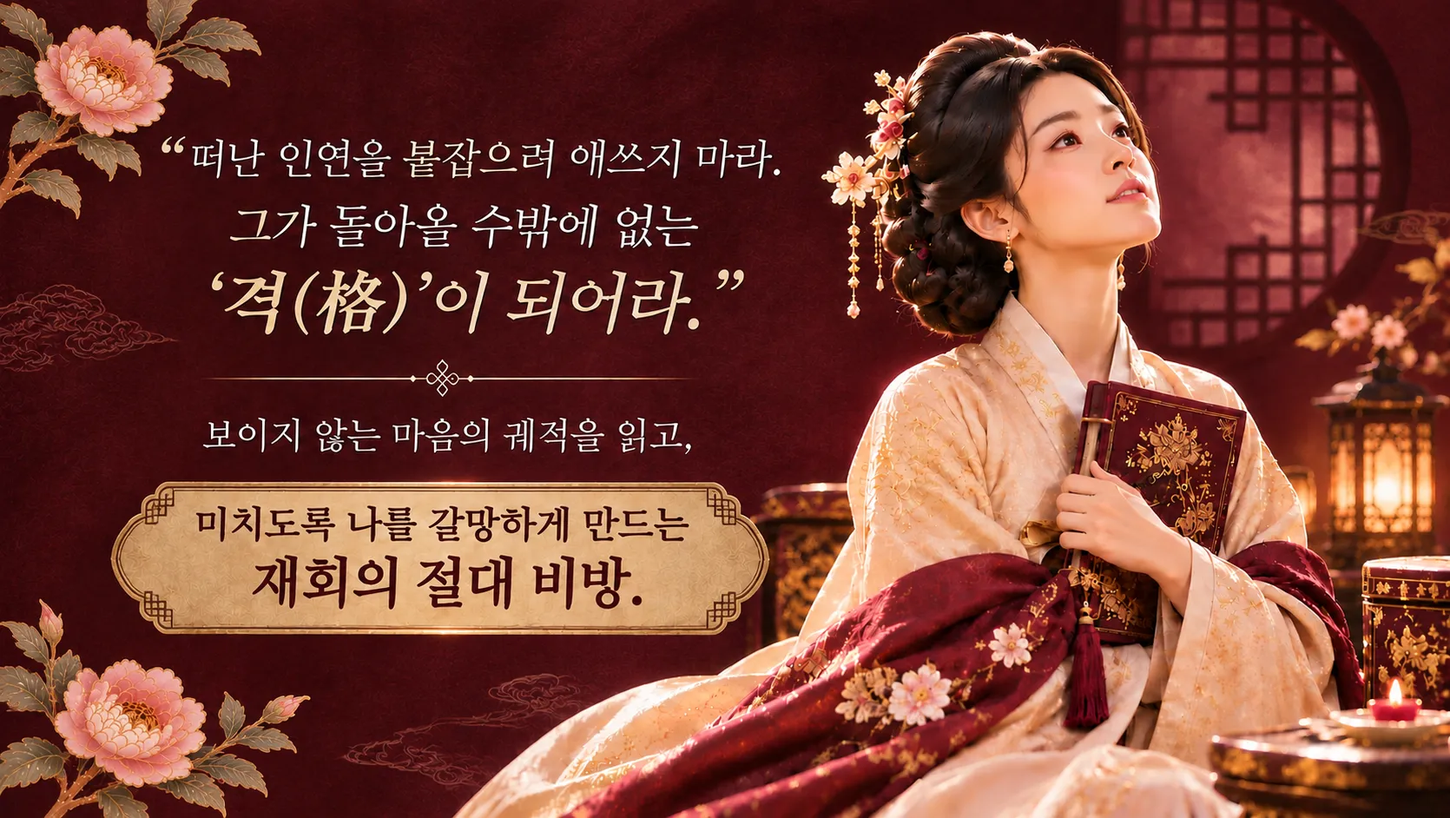
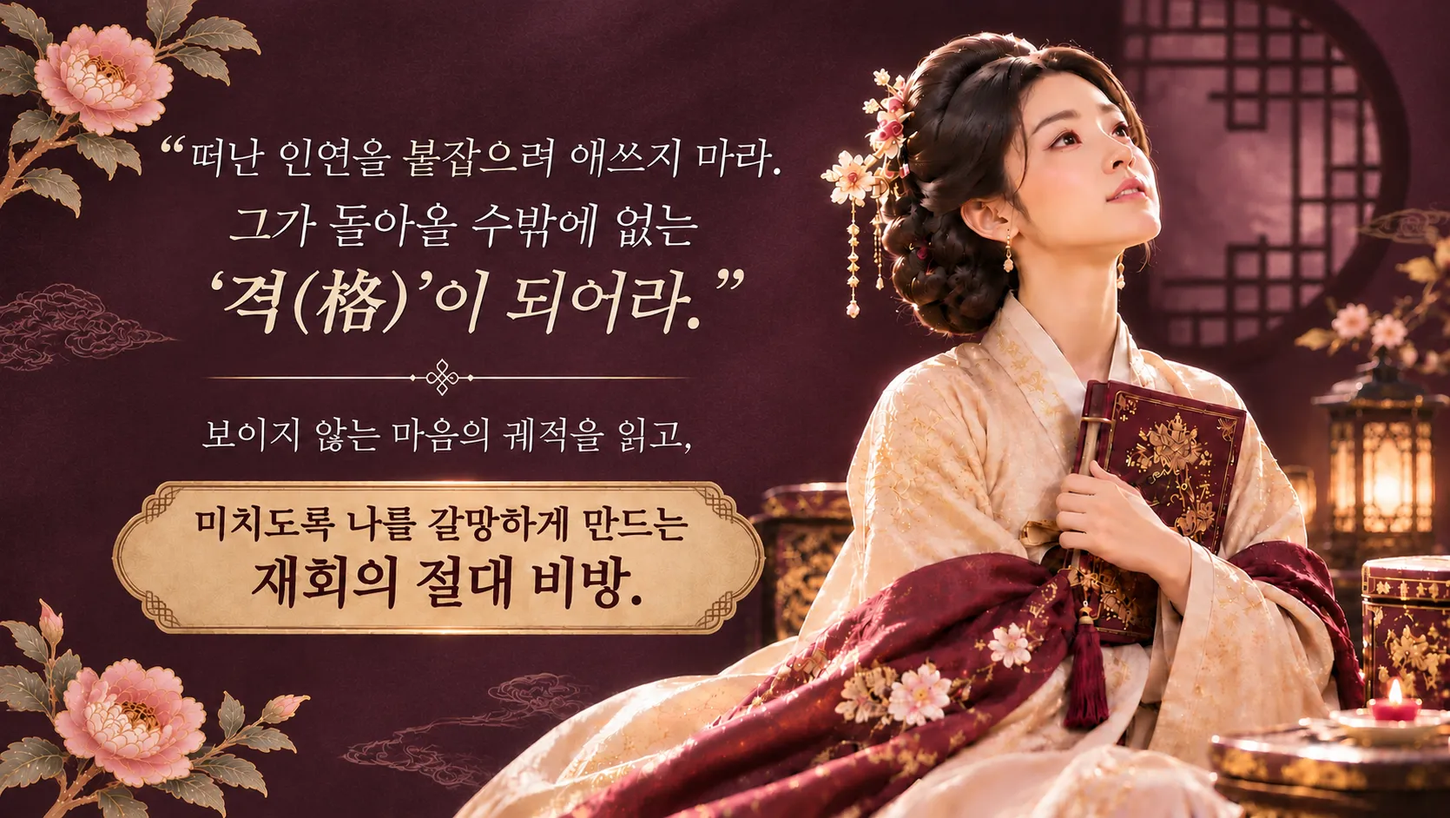
style(reunion-secret): refine entire page color scheme to deep plum burgundy

diff --git a/app/reports/reunion-secret/page.tsx b/app/reports/reunion-secret/page.tsx
@@ -139,14 +139,14 @@ function HybridImageSlot({
     <div
       className={`relative overflow-hidden rounded-2xl md:rounded-3xl border border-[#B49A70]/40 shadow-2xl flex flex-col items-center justify-center p-6 text-center group transition-all duration-300 hover:border-[#B49A70]/70 ${className}`}
       style={{
-        background: 'radial-gradient(ellipse at 50% 30%, rgba(96, 0, 24, 0.45) 0%, rgba(28, 4, 11, 0.95) 100%)',
+        background: 'radial-gradient(ellipse at 50% 30%, rgba(70, 45, 56, 0.45) 0%, rgba(38, 25, 32, 0.95) 100%)',
         boxShadow: '0 12px 40px rgba(0, 0, 0, 0.5), inset 0 0 20px rgba(180, 154, 112, 0.08)'
       }}
     >
       <div className="absolute inset-0 bg-[radial-gradient(circle_at_50%_40%,rgba(180,154,112,0.12)_0%,transparent_60%)] pointer-events-none" />
 
       <div className="relative z-10 flex flex-col items-center space-y-3 max-w-xs">
-        <div className="w-12 h-12 rounded-2xl bg-[#600018]/60 border border-[#B49A70]/50 flex items-center justify-center text-[#B59C88] shadow-md group-hover:scale-105 transition-transform">
+        <div className="w-12 h-12 rounded-2xl bg-[#462D38]/60 border border-[#B49A70]/50 flex items-center justify-center text-[#B59C88] shadow-md group-hover:scale-105 transition-transform">
           <ImageIcon className="w-6 h-6 text-[#C2A477]" />
         </div>
 
@@ -189,7 +189,7 @@ function BookTocAccordion({
       <button
         type="button"
         onClick={() => setIsOpen(!isOpen)}
-        className="w-full py-3 px-4 rounded-xl border border-[#B49A70]/30 bg-[#2E0B16]/40 hover:bg-[#4A0E1C]/60 hover:border-[#B49A70]/60 transition-all flex items-center justify-between text-left group cursor-pointer"
+        className="w-full py-3 px-4 rounded-xl border border-[#B49A70]/30 bg-[#38212B]/40 hover:bg-[#462D38]/60 hover:border-[#B49A70]/60 transition-all flex items-center justify-between text-left group cursor-pointer"
       >
         <div className="flex items-center gap-2.5">
           <BookOpen className="w-4 h-4 text-[#C2A477] group-hover:text-[#FAF7F2] transition-colors" />
@@ -410,29 +410,29 @@ export default function ReunionSecretPage() {
         brightCenter={false}
         customBaseOverlay={
           <div className="absolute inset-0 w-full h-full pointer-events-none">
-            {/* 1. 우측 은은한 앤티크 브라운 버건디 라이트 오라 (오른쪽 입체감 및 비침 효과 강화) */}
+            {/* 1. 우측 은은한 딥 플럼 버건디 라이트 오라 (오른쪽 입체감 및 비침 효과 강화) */}
             <div
               className="absolute inset-0"
               style={{
                 background: `
-                  radial-gradient(ellipse 70% 50% at 88% 22%, rgba(78, 32, 45, 0.25) 0%, rgba(45, 18, 25, 0.10) 50%, transparent 75%),
-                  radial-gradient(circle 600px at 90% 65%, rgba(65, 26, 37, 0.18) 0%, transparent 65%)
+                  radial-gradient(ellipse 70% 50% at 88% 22%, rgba(70, 45, 56, 0.22) 0%, rgba(56, 33, 43, 0.10) 50%, transparent 75%),
+                  radial-gradient(circle 600px at 90% 65%, rgba(64, 48, 57, 0.15) 0%, transparent 65%)
                 `,
               }}
             />
 
-            {/* 2. 메인 가로 그라데이션 (왼쪽은 100% 완전 불투명 암흑 와인으로 배경 차단, 오른쪽만 살짝 투명도를 주어 은은하게 비침) */}
+            {/* 2. 메인 가로 그라데이션 (왼쪽은 딥 다크 플럼으로 배경 차단, 오른쪽만 살짝 투명도를 주어 은은하게 비침) */}
             <div
               className="absolute inset-0"
               style={{
                 background: `
                   linear-gradient(
                     95deg,
-                    #12080B 0%,
-                    #160D11 35%,
-                    rgba(28, 14, 18, 0.98) 55%,
-                    rgba(43, 20, 27, 0.94) 75%,
-                    rgba(60, 26, 36, 0.88) 100%
+                    #120B0E 0%,
+                    #181014 35%,
+                    rgba(26, 17, 22, 0.98) 55%,
+                    rgba(38, 25, 32, 0.94) 75%,
+                    rgba(56, 33, 43, 0.88) 100%
                   )
                 `,
               }}
@@ -573,7 +573,7 @@ export default function ReunionSecretPage() {
                           <button
                             type="button"
                             onClick={handleAddToCart}
-                            className="py-3.5 px-5 sm:px-6 rounded-xl font-elegant font-bold text-sm md:text-base border border-[#B49A70]/60 text-[#B59C88] hover:bg-[#600018]/25 hover:border-[#B49A70]/70 transition-all duration-300 shrink-0 whitespace-nowrap text-center bg-transparent order-2 sm:order-1"
+                            className="py-3.5 px-5 sm:px-6 rounded-xl font-elegant font-bold text-sm md:text-base border border-[#B49A70]/60 text-[#B59C88] hover:bg-[#462D38]/30 hover:border-[#B49A70]/70 transition-all duration-300 shrink-0 whitespace-nowrap text-center bg-transparent order-2 sm:order-1"
                           >
                             장바구니 담기
                           </button>
@@ -679,7 +679,7 @@ export default function ReunionSecretPage() {
                               key={idx}
                               className="p-4 rounded-xl border border-white/10 bg-white/[0.02] flex items-start gap-3.5 hover:border-[#B49A70]/40 transition-colors"
                             >
-                              <div className="w-5 h-5 rounded border border-[#B49A70]/60 flex items-center justify-center shrink-0 mt-1 bg-[#600018] shadow-sm">
+                              <div className="w-5 h-5 rounded border border-[#B49A70]/60 flex items-center justify-center shrink-0 mt-1 bg-[#462D38] shadow-sm">
                                 <Check className="w-3.5 h-3.5 text-[#FAF7F2]" />
                               </div>
                               <span className="text-[16px] md:text-[18px] text-[#FAF7F2] font-medium leading-[1.6] break-keep">
@@ -741,7 +741,7 @@ export default function ReunionSecretPage() {
                           ) : (
                             <div className="w-full h-full p-8 flex flex-col justify-between relative overflow-hidden"
                               style={{
-                                background: 'radial-gradient(ellipse at 50% 30%, rgba(96, 0, 24, 0.45) 0%, rgba(28, 4, 11, 0.95) 100%)'
+                                background: 'radial-gradient(ellipse at 50% 30%, rgba(70, 45, 56, 0.45) 0%, rgba(38, 25, 32, 0.95) 100%)'
                               }}>
                               <div className="text-center relative z-10 space-y-2">
                                 <ReunionBadge>
@@ -793,8 +793,8 @@ export default function ReunionSecretPage() {
                       <div
                         className="p-7 md:p-8 rounded-2xl md:rounded-3xl relative overflow-hidden transition-all duration-300 hover:-translate-y-1 hover:border-[#B49A70]/50 flex flex-col justify-between"
                         style={{
-                          background: 'linear-gradient(135deg, rgba(50, 10, 20, 0.70) 0%, rgba(20, 5, 12, 0.85) 100%)',
-                          border: '1px solid rgba(180, 154, 112, 0.25)',
+                          background: 'linear-gradient(135deg, rgba(70, 45, 56, 0.70) 0%, rgba(38, 25, 32, 0.88) 100%)',
+                          border: '1px solid rgba(185, 154, 121, 0.25)',
                           backdropFilter: 'blur(10px)',
                           WebkitBackdropFilter: 'blur(10px)',
                           boxShadow: '0 8px 32px rgba(0, 0, 0, 0.35)'
@@ -824,8 +824,8 @@ export default function ReunionSecretPage() {
                       <div
                         className="p-7 md:p-8 rounded-2xl md:rounded-3xl relative overflow-hidden transition-all duration-300 hover:-translate-y-1 hover:border-[#B49A70]/50 flex flex-col justify-between"
                         style={{
-                          background: 'linear-gradient(135deg, rgba(50, 10, 20, 0.70) 0%, rgba(20, 5, 12, 0.85) 100%)',
-                          border: '1px solid rgba(180, 154, 112, 0.25)',
+                          background: 'linear-gradient(135deg, rgba(70, 45, 56, 0.70) 0%, rgba(38, 25, 32, 0.88) 100%)',
+                          border: '1px solid rgba(185, 154, 121, 0.25)',
                           backdropFilter: 'blur(10px)',
                           WebkitBackdropFilter: 'blur(10px)',
                           boxShadow: '0 8px 32px rgba(0, 0, 0, 0.35)'
@@ -855,8 +855,8 @@ export default function ReunionSecretPage() {
                       <div
                         className="p-7 md:p-8 rounded-2xl md:rounded-3xl relative overflow-hidden transition-all duration-300 hover:-translate-y-1 hover:border-[#B49A70]/50 flex flex-col justify-between"
                         style={{
-                          background: 'linear-gradient(135deg, rgba(50, 10, 20, 0.70) 0%, rgba(20, 5, 12, 0.85) 100%)',
-                          border: '1px solid rgba(180, 154, 112, 0.25)',
+                          background: 'linear-gradient(135deg, rgba(70, 45, 56, 0.70) 0%, rgba(38, 25, 32, 0.88) 100%)',
+                          border: '1px solid rgba(185, 154, 121, 0.25)',
                           backdropFilter: 'blur(10px)',
                           WebkitBackdropFilter: 'blur(10px)',
                           boxShadow: '0 8px 32px rgba(0, 0, 0, 0.35)'
@@ -1400,8 +1400,8 @@ export default function ReunionSecretPage() {
                       textClassName="text-[15px] sm:text-[16px] md:text-[17px]"
                       cardBgColor="#F3E9D8"
                       cardBorderColor="rgba(197, 168, 140, 0.45)"
-                      checkBgColor="#682438"
-                      checkBorderColor="border-[#8C3A4F]/40"
+                      checkBgColor="#462D38"
+                      checkBorderColor="border-[#462D38]/40"
                       checkIconColor="text-[#FFF5E8]"
                       textColor="text-[#2C151D]"
                       items={[
@@ -1467,7 +1467,7 @@ export default function ReunionSecretPage() {
                       /* 최종 인포그래픽 교체 전에도 품격 있게 표시되는 아키텍처 다이어그램 카드 */
                       <div className="w-full p-6 sm:p-10 md:p-14 flex flex-col justify-between relative overflow-hidden text-left"
                         style={{
-                          background: 'linear-gradient(135deg, rgba(35, 6, 14, 0.95) 0%, rgba(15, 3, 8, 0.98) 100%)'
+                          background: 'linear-gradient(135deg, rgba(56, 33, 43, 0.95) 0%, rgba(26, 17, 22, 0.98) 100%)'
                         }}>
                         <div className="grid grid-cols-1 md:grid-cols-4 gap-4 sm:gap-6 relative z-10 my-4 items-stretch">
                           {[
@@ -1633,7 +1633,7 @@ export default function ReunionSecretPage() {
                           </li>
                         </ul>
                       </div>
-                      <div className="p-4 rounded-xl bg-[#600018]/50 border border-[#B49A70]/40 text-xs text-[#FAF7F2] font-medium">
+                      <div className="p-4 rounded-xl bg-[#462D38]/50 border border-[#B49A70]/40 text-xs text-[#FAF7F2] font-medium">
                         ✨ 이때 상대방은 &apos;내가 잘못 판단했구나&apos;라는 후회와 함께 자발적으로 다가옵니다.
                       </div>
                     </div>
@@ -1760,7 +1760,7 @@ export default function ReunionSecretPage() {
               <Reveal>
                 <div className="space-y-10">
                   {/* Book 1. [본편] 《재회비방(再會秘方) 완전판》 */}
-                  <div className="p-6 md:p-10 lg:p-12 rounded-3xl bg-gradient-to-r from-[#1E040D] via-[#140207] to-[#0A0205] border border-[#B49A70]/40 shadow-2xl grid lg:grid-cols-12 gap-8 lg:gap-12 items-start">
+                  <div className="p-6 md:p-10 lg:p-12 rounded-3xl bg-gradient-to-r from-[#2B1B24] via-[#1E1319] to-[#120B0F] border border-[#B49A70]/40 shadow-2xl grid lg:grid-cols-12 gap-8 lg:gap-12 items-start">
                     <div className="lg:col-span-5 flex justify-center">
                       <div className="w-full max-w-[340px] lg:max-w-none">
                         <HybridImageSlot
@@ -1835,7 +1835,7 @@ export default function ReunionSecretPage() {
                   </div>
 
                   {/* Book 2. [실전 부록 1] 《재회 역전의 법칙: 30일 실전 행동 매뉴얼》 */}
-                  <div className="p-6 md:p-10 lg:p-12 rounded-3xl bg-gradient-to-r from-[#1E040D] via-[#140207] to-[#0A0205] border border-[#B49A70]/40 shadow-2xl grid lg:grid-cols-12 gap-8 lg:gap-12 items-start">
+                  <div className="p-6 md:p-10 lg:p-12 rounded-3xl bg-gradient-to-r from-[#2B1B24] via-[#1E1319] to-[#120B0F] border border-[#B49A70]/40 shadow-2xl grid lg:grid-cols-12 gap-8 lg:gap-12 items-start">
                     <div className="lg:col-span-5 flex justify-center order-last lg:order-first">
                       <div className="w-full max-w-[340px] lg:max-w-none">
                         <HybridImageSlot
@@ -1904,13 +1904,13 @@ export default function ReunionSecretPage() {
                             </span>
                           </h4>
                           <div className="flex flex-wrap gap-2 pl-5 pt-0.5">
-                            <span className="px-2.5 py-1 rounded-md bg-[#2A0510] border border-[#B49A70]/35 text-[13px] md:text-[14px] text-[#FAF7F2]">
+                            <span className="px-2.5 py-1 rounded-md bg-[#38212B] border border-[#B49A70]/35 text-[13px] md:text-[14px] text-[#FAF7F2]">
                               감정 격류 진정 기록지
                             </span>
-                            <span className="px-2.5 py-1 rounded-md bg-[#2A0510] border border-[#B49A70]/35 text-[13px] md:text-[14px] text-[#FAF7F2]">
+                            <span className="px-2.5 py-1 rounded-md bg-[#38212B] border border-[#B49A70]/35 text-[13px] md:text-[14px] text-[#FAF7F2]">
                               공백기 일일 점검표
                             </span>
-                            <span className="px-2.5 py-1 rounded-md bg-[#2A0510] border border-[#B49A70]/35 text-[13px] md:text-[14px] text-[#FAF7F2]">
+                            <span className="px-2.5 py-1 rounded-md bg-[#38212B] border border-[#B49A70]/35 text-[13px] md:text-[14px] text-[#FAF7F2]">
                               재회 가능성 12문항 자가진단표
                             </span>
                           </div>
@@ -1924,7 +1924,7 @@ export default function ReunionSecretPage() {
                   </div>
 
                   {/* Book 3. [실전 부록 2] 《재회 후폭풍 치트키: 무의식 시크릿 메시지 33선》 */}
-                  <div className="p-6 md:p-10 lg:p-12 rounded-3xl bg-gradient-to-r from-[#1E040D] via-[#140207] to-[#0A0205] border border-[#B49A70]/40 shadow-2xl grid lg:grid-cols-12 gap-8 lg:gap-12 items-start">
+                  <div className="p-6 md:p-10 lg:p-12 rounded-3xl bg-gradient-to-r from-[#2B1B24] via-[#1E1319] to-[#120B0F] border border-[#B49A70]/40 shadow-2xl grid lg:grid-cols-12 gap-8 lg:gap-12 items-start">
                     <div className="lg:col-span-5 flex justify-center">
                       <div className="w-full max-w-[340px] lg:max-w-none">
                         <HybridImageSlot
@@ -2040,7 +2040,7 @@ export default function ReunionSecretPage() {
                             <div
                               key={idx}
                               onClick={() => setPreviewModalItem(item)}
-                              className="group relative aspect-[3/4] rounded-xl overflow-hidden border border-[#B49A70]/30 bg-[#160308] cursor-pointer shadow-md hover:border-[#B49A70]/70 transition-all"
+                              className="group relative aspect-[3/4] rounded-xl overflow-hidden border border-[#B49A70]/30 bg-[#261920] cursor-pointer shadow-md hover:border-[#B49A70]/70 transition-all"
                             >
                               <Image
                                 src={item.imageSrc}
@@ -2126,7 +2126,7 @@ export default function ReunionSecretPage() {
                     <button
                       type="button"
                       onClick={handleAddToCart}
-                      className="py-3.5 px-5 sm:px-6 rounded-xl font-elegant font-bold text-sm md:text-base border border-[#B49A70]/60 text-[#B59C88] hover:bg-[#600018]/25 hover:border-[#B49A70]/70 transition-all duration-300 shrink-0 whitespace-nowrap text-center bg-transparent order-2 sm:order-1"
+                      className="py-3.5 px-5 sm:px-6 rounded-xl font-elegant font-bold text-sm md:text-base border border-[#B49A70]/60 text-[#B59C88] hover:bg-[#462D38]/30 hover:border-[#B49A70]/70 transition-all duration-300 shrink-0 whitespace-nowrap text-center bg-transparent order-2 sm:order-1"
                     >
                       장바구니 담기
                     </button>
@@ -2406,8 +2406,8 @@ export default function ReunionSecretPage() {
                             {/* 딥 버건디 원형 체크 아이콘 (이런 분께 추천합니다와 크기·색상·비율 100% 일치) */}
                             <div className="shrink-0 mt-0.5 relative z-10">
                               <div
-                                style={{ backgroundColor: '#682438' }}
-                                className="w-6 h-6 md:w-[26px] md:h-[26px] rounded-full flex items-center justify-center p-1 border border-[#8C3A4F]/40 shadow-none"
+                                style={{ backgroundColor: '#462D38' }}
+                                className="w-6 h-6 md:w-[26px] md:h-[26px] rounded-full flex items-center justify-center p-1 border border-[#462D38]/40 shadow-none"
                               >
                                 <Check className="w-3.5 h-3.5 md:w-4 md:h-4 text-[#FFF5E8] stroke-[2.4]" />
                               </div>
@@ -2485,7 +2485,7 @@ export default function ReunionSecretPage() {
                     ) : (
                       <div className="w-full h-full p-6 sm:p-10 md:p-14 flex flex-col justify-between relative overflow-hidden"
                         style={{
-                          background: 'linear-gradient(135deg, rgba(35, 6, 14, 0.90) 0%, rgba(15, 3, 8, 0.98) 100%)'
+                          background: 'linear-gradient(135deg, rgba(56, 33, 43, 0.90) 0%, rgba(26, 17, 22, 0.98) 100%)'
                         }}>
                         <div className="absolute inset-0 bg-[radial-gradient(circle_at_50%_50%,rgba(180,154,112,0.15)_0%,transparent_70%)] pointer-events-none" />
 
@@ -2498,9 +2498,9 @@ export default function ReunionSecretPage() {
                         {/* 좌우 비교 카드 (왼쪽: 불안에 쫓기는 사람 vs 오른쪽: 내 중심을 지키는 사람) */}
                         <div className="grid grid-cols-1 md:grid-cols-2 gap-6 md:gap-10 relative z-10 my-auto items-stretch">
                           {/* 왼쪽: 불안에 쫓기는 사람 */}
-                          <div className="p-5 sm:p-6 md:p-8 rounded-2xl bg-[#140207]/90 border border-[#5A1220] flex flex-col justify-between space-y-4 shadow-lg">
+                          <div className="p-5 sm:p-6 md:p-8 rounded-2xl bg-[#1D1318]/90 border border-[#462D38] flex flex-col justify-between space-y-4 shadow-lg">
                             <div className="flex items-center justify-between border-b border-white/10 pb-3">
-                              <span className="px-3 py-1 rounded bg-[#3A0813] text-xs font-bold text-[#E5DED0]">
+                              <span className="px-3 py-1 rounded bg-[#403039] text-xs font-bold text-[#E5DED0]">
                                 불안에 쫓기는 사람
                               </span>
                               <span className="text-xs text-red-400 font-medium">을의 연애 / 매달림</span>
@@ -2525,9 +2525,9 @@ export default function ReunionSecretPage() {
                           </div>
 
                           {/* 오른쪽: 내 중심을 지키는 사람 */}
-                          <div className="p-5 sm:p-6 md:p-8 rounded-2xl bg-[#28050F]/90 border border-[#B49A70]/60 flex flex-col justify-between space-y-4 shadow-xl">
+                          <div className="p-5 sm:p-6 md:p-8 rounded-2xl bg-[#261920]/90 border border-[#B49A70]/60 flex flex-col justify-between space-y-4 shadow-xl">
                             <div className="flex items-center justify-between border-b border-[#B49A70]/30 pb-3">
-                              <span className="px-3 py-1 rounded bg-[#600018] text-xs font-bold text-[#FAF7F2] border border-[#B49A70]/40">
+                              <span className="px-3 py-1 rounded bg-[#462D38] text-xs font-bold text-[#FAF7F2] border border-[#B49A70]/40">
                                 내 중심을 지키는 사람
                               </span>
                               <span className="text-xs text-[#C2A477] font-bold">프레임 역전 / 주도권</span>
@@ -2600,7 +2600,7 @@ export default function ReunionSecretPage() {
                     ) : (
                       <div className="w-full h-full p-8 sm:p-12 md:p-16 lg:p-20 flex flex-col justify-between relative overflow-hidden text-left"
                         style={{
-                          background: 'radial-gradient(ellipse at 80% 50%, rgba(96, 0, 24, 0.45) 0%, rgba(20, 5, 12, 0.95) 70%, rgba(10, 2, 6, 1) 100%)'
+                          background: 'radial-gradient(ellipse at 80% 50%, rgba(70, 45, 56, 0.45) 0%, rgba(38, 25, 32, 0.95) 70%, rgba(18, 11, 15, 1) 100%)'
                         }}>
                         <div className="absolute -right-20 -bottom-20 w-96 h-96 rounded-full bg-[#B49A70]/10 blur-3xl pointer-events-none" />
 
@@ -2661,7 +2661,7 @@ export default function ReunionSecretPage() {
                         </p>
                       </div>
 
-                      <div className="p-7 rounded-2xl bg-[#2E0B16]/50 border border-[#B49A70]/30 space-y-3">
+                      <div className="p-7 rounded-2xl bg-[#38212B]/50 border border-[#B49A70]/30 space-y-3">
                         <p className="text-lg md:text-xl font-elegant font-medium text-[#FAF7F2] leading-relaxed break-keep">
                           &ldquo;{reviewCards[reviewIndex].quote}&rdquo;
                         </p>
@@ -2674,7 +2674,7 @@ export default function ReunionSecretPage() {
                         <button
                           type="button"
                           onClick={prevReview}
-                          className="p-3 rounded-full border border-[#B49A70]/40 text-[#FAF7F2] hover:bg-[#600018]/50 transition-colors"
+                          className="p-3 rounded-full border border-[#B49A70]/40 text-[#FAF7F2] hover:bg-[#462D38]/50 transition-colors"
                         >
                           <ChevronLeft className="w-5 h-5" />
                         </button>
@@ -2684,7 +2684,7 @@ export default function ReunionSecretPage() {
                         <button
                           type="button"
                           onClick={nextReview}
-                          className="p-3 rounded-full border border-[#B49A70]/40 text-[#FAF7F2] hover:bg-[#600018]/50 transition-colors"
+                          className="p-3 rounded-full border border-[#B49A70]/40 text-[#FAF7F2] hover:bg-[#462D38]/50 transition-colors"
                         >
                           <ChevronRight className="w-5 h-5" />
                         </button>
@@ -2873,7 +2873,7 @@ export default function ReunionSecretPage() {
                     return (
                       <div
                         key={idx}
-                        className="rounded-2xl border border-[#B49A70]/30 overflow-hidden bg-[#160308]/60 transition-colors"
+                        className="rounded-2xl border border-[#B49A70]/30 overflow-hidden bg-[#261920]/60 transition-colors"
                       >
                         <button
                           type="button"
@@ -2916,7 +2916,7 @@ export default function ReunionSecretPage() {
                 <div
                   className="gungjung-glass rounded-3xl border border-[#B49A70]/30 p-8 sm:p-10 md:p-12 text-left space-y-6"
                   style={{
-                    background: 'linear-gradient(135deg, rgba(30, 4, 12, 0.70) 0%, rgba(12, 2, 6, 0.90) 100%)'
+                    background: 'linear-gradient(135deg, rgba(48, 30, 39, 0.70) 0%, rgba(26, 17, 22, 0.90) 100%)'
                   }}
                 >
                   <div className="space-y-2 border-b border-white/10 pb-4">
@@ -2952,7 +2952,7 @@ export default function ReunionSecretPage() {
                 Section 21: 관계 변화 메시지 및 감성 텍스트 링크 배너
                ═══════════════════════════════════════════════════════════════ */}
             <section
-              className="relative aspect-[16/9] md:aspect-video overflow-hidden rounded-[32px] md:rounded-[40px] mb-20 group shadow-2xl w-full max-w-[1280px] mx-auto bg-[#1C040B]"
+              className="relative aspect-[16/9] md:aspect-video overflow-hidden rounded-[32px] md:rounded-[40px] mb-20 group shadow-2xl w-full max-w-[1280px] mx-auto bg-[#261920]"
               style={{
                 border: '1px solid rgba(190, 158, 108, 0.78)',
                 boxShadow: '0 0 0 1px rgba(221, 190, 142, 0.08), 0 0 24px rgba(185, 145, 91, 0.09), 0 16px 45px rgba(0, 0, 0, 0.5)'
@@ -3014,10 +3014,11 @@ export default function ReunionSecretPage() {
 
                 {/* 안쪽 구매 카드 */}
                 <div
-                  className="rounded-3xl p-8 sm:p-10 md:p-12 relative overflow-hidden shadow-2xl max-w-2xl mx-auto bg-gradient-to-b from-[#1E040D] via-[#140207] to-[#0A0205]"
+                  className="rounded-3xl p-8 sm:p-10 md:p-12 relative overflow-hidden shadow-2xl max-w-2xl mx-auto"
                   style={{
+                    background: 'linear-gradient(180deg, #38212B 0%, #261920 52%, #140C10 100%)',
                     border: '1px solid rgba(190, 158, 108, 0.78)',
-                    boxShadow: '0 0 0 1px rgba(221, 190, 142, 0.08), 0 0 24px rgba(185, 145, 91, 0.12), 0 12px 40px rgba(96, 0, 24, 0.30)'
+                    boxShadow: '0 0 0 1px rgba(221, 190, 142, 0.08), 0 0 24px rgba(185, 145, 91, 0.12), 0 12px 40px rgba(56, 33, 43, 0.40)'
                   }}
                 >
                   <div className="space-y-6">
@@ -3046,7 +3047,7 @@ export default function ReunionSecretPage() {
                       <button
                         type="button"
                         onClick={handleAddToCart}
-                        className="py-4 px-6 rounded-xl font-elegant font-bold text-sm md:text-base border border-[#B49A70]/60 text-[#B59C88] hover:bg-[#600018]/25 hover:border-[#B49A70]/70 transition-all duration-300 shrink-0 whitespace-nowrap text-center bg-transparent order-2 sm:order-1"
+                        className="py-4 px-6 rounded-xl font-elegant font-bold text-sm md:text-base border border-[#B49A70]/60 text-[#B59C88] hover:bg-[#462D38]/30 hover:border-[#B49A70]/70 transition-all duration-300 shrink-0 whitespace-nowrap text-center bg-transparent order-2 sm:order-1"
                       >
                         장바구니 담기
                       </button>
@@ -3100,7 +3101,7 @@ export default function ReunionSecretPage() {
             onClick={() => setPreviewModalItem(null)}
           >
             <div
-              className="relative max-w-3xl w-full max-h-[90vh] bg-[#160308] border border-[#B49A70]/50 rounded-2xl md:rounded-3xl p-6 sm:p-8 flex flex-col items-center justify-center shadow-2xl space-y-4"
+              className="relative max-w-3xl w-full max-h-[90vh] bg-[#261920] border border-[#B49A70]/50 rounded-2xl md:rounded-3xl p-6 sm:p-8 flex flex-col items-center justify-center shadow-2xl space-y-4"
               onClick={(e) => e.stopPropagation()}
             >
               <button
